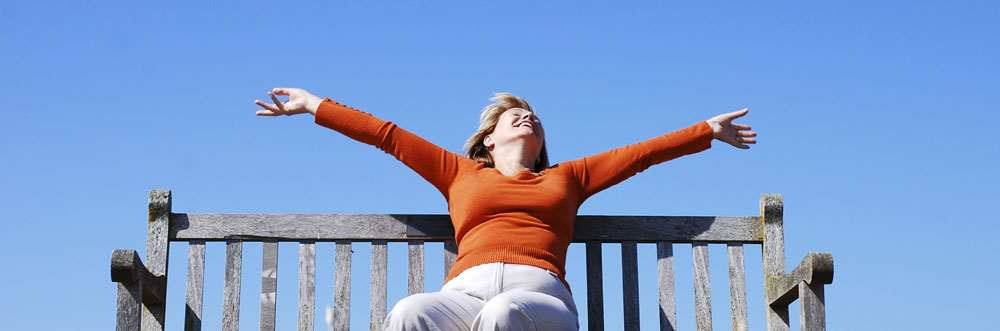
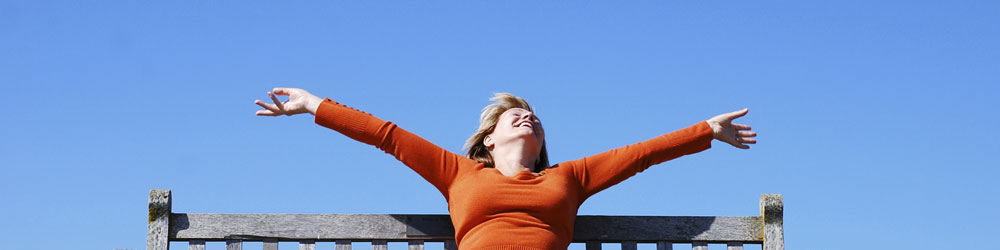
added Edge Animate project for home page image slide-show

Changed region(s): [[0.093, 0.252, 0.837, 1.0]]

diff --git a/application/views/home/pages/guestIndex.php b/application/views/home/pages/guestIndex.php
@@ -34,9 +34,19 @@ $this->widget(
 
 <!-- index page main image -->
 
+<!-- testing slide show here
 <div id="home-image">
   <h1>{t}Web-based Training for Caregivers{/t}</h1>
 </div>
+
+-->
+<div>
+<img src="<?php ?>
+  <h1>{t}Web-based Training for Caregivers{/t}</h1>
+
+</div>
+
+
 
 <!-- Begin sidebar -->
 
